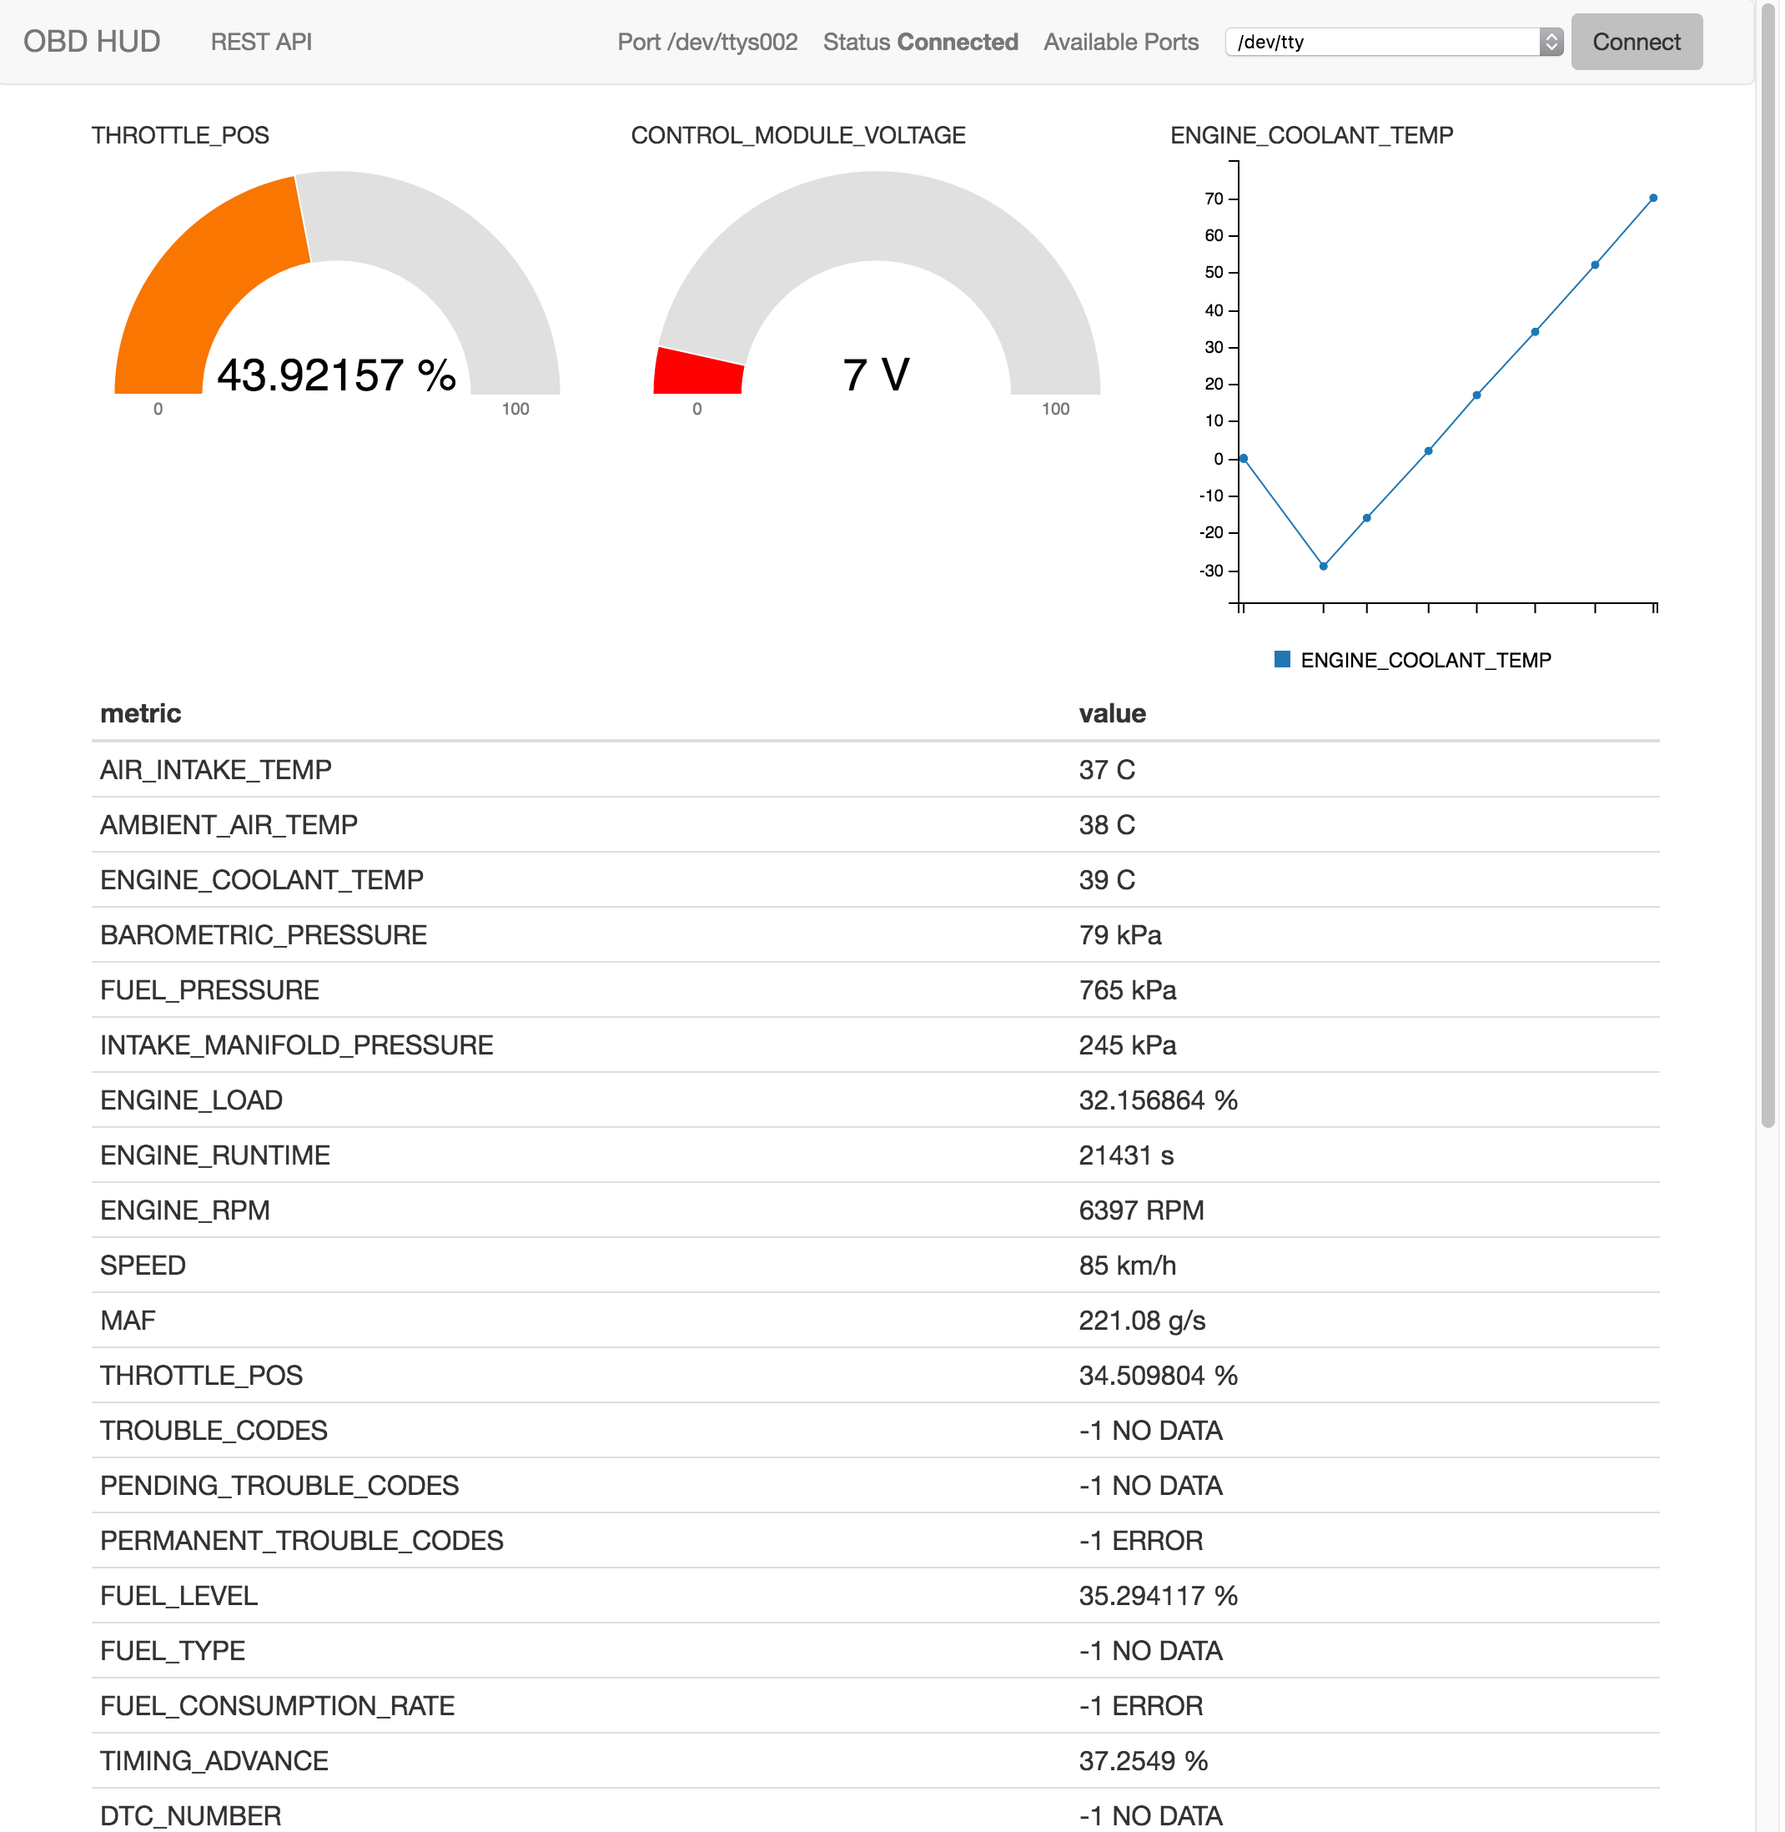
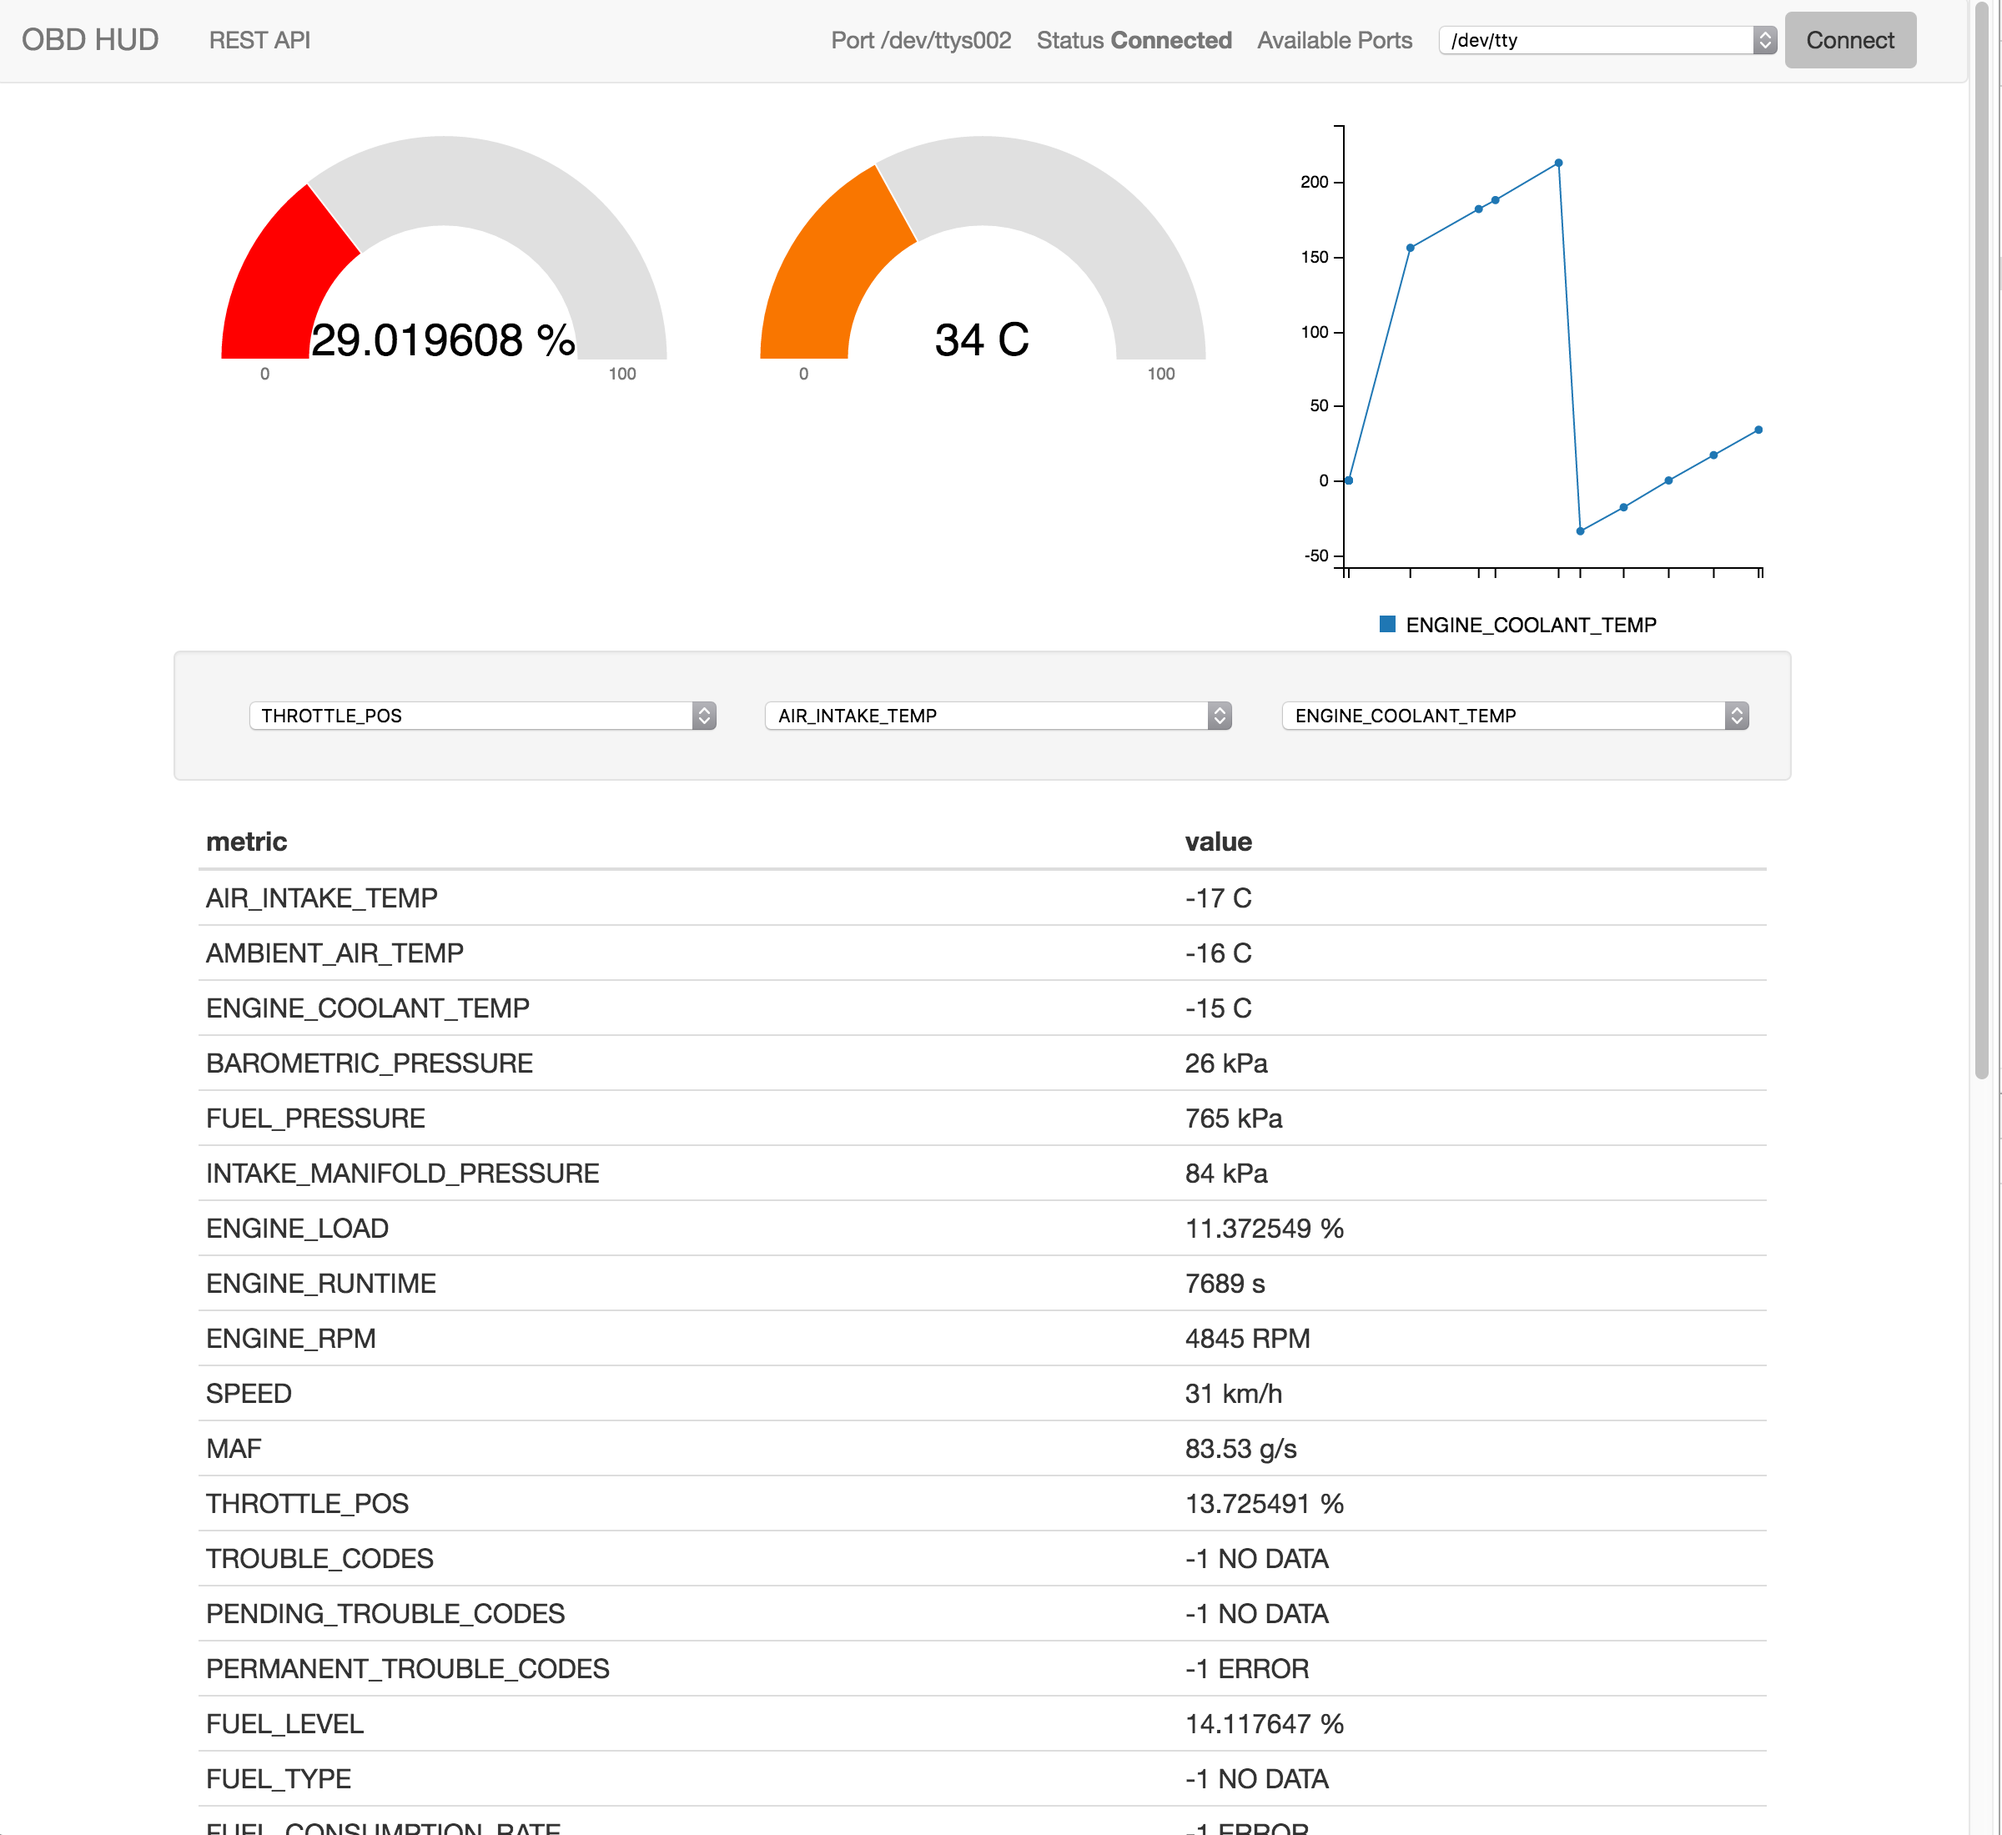
Ability to change chart content

diff --git a/src/main/resources/static/index.html b/src/main/resources/static/index.html
@@ -7,6 +7,7 @@
   <title>obd-hud</title>
   <script src="lib/jquery-3.0.0.min.js"></script>
   <link href="lib/c3.min.css" rel="stylesheet" type="text/css">
+  <link href="css/main.css" rel="stylesheet" type="text/css">
 
   <script src="lib/d3.v3.min.js" charset="utf-8"></script>
   <script src="lib/c3.min.js"></script>
@@ -49,21 +50,27 @@
     </div><!-- /.container-fluid -->
   </nav>
 
-
-
   <div class="container">
     <div class="row">
       <div class="col-md-4">
-        <select id="chart1_label" class="allMetrics chart-change-selector" chartId="chart1"></select>
         <div id="chart1"></div>
       </div>
       <div class="col-md-4">
-        <select id="chart2_label" class="allMetrics chart-change-selector" chartId="chart2"></select>
         <div id="chart2"></div>
       </div>
       <div class="col-md-4">
-        <select id="chart3_label" class="allMetrics chart-change-selector" chartId="chart3"></select>
         <div id="chart3"></div>
+      </div>
+    </div>
+    <div class="row well">
+      <div class="col-md-4">
+        <select id="chart1_label" class="allMetrics chart-change-selector" chartId="chart1"></select>
+      </div>
+      <div class="col-md-4">
+        <select id="chart2_label" class="allMetrics chart-change-selector" chartId="chart2"></select>
+      </div>
+      <div class="col-md-4">
+        <select id="chart3_label" class="allMetrics chart-change-selector" chartId="chart3"></select>
       </div>
     </div>
     <div class="row">

diff --git a/src/main/java/com/wbdev/obdhud/controller/ObdMetricsController.java b/src/main/java/com/wbdev/obdhud/controller/ObdMetricsController.java
@@ -5,7 +5,10 @@ import com.wbdev.obdhud.api.Metric;
 import com.wbdev.obdhud.exceptionhandling.NotConnectedException;
 import com.wbdev.obdhud.metrics.MetricService;
 import org.springframework.beans.factory.annotation.Autowired;
-import org.springframework.web.bind.annotation.*;
+import org.springframework.web.bind.annotation.PathVariable;
+import org.springframework.web.bind.annotation.RequestMapping;
+import org.springframework.web.bind.annotation.RequestMethod;
+import org.springframework.web.bind.annotation.RestController;
 
 import java.io.IOException;
 import java.util.LinkedList;
